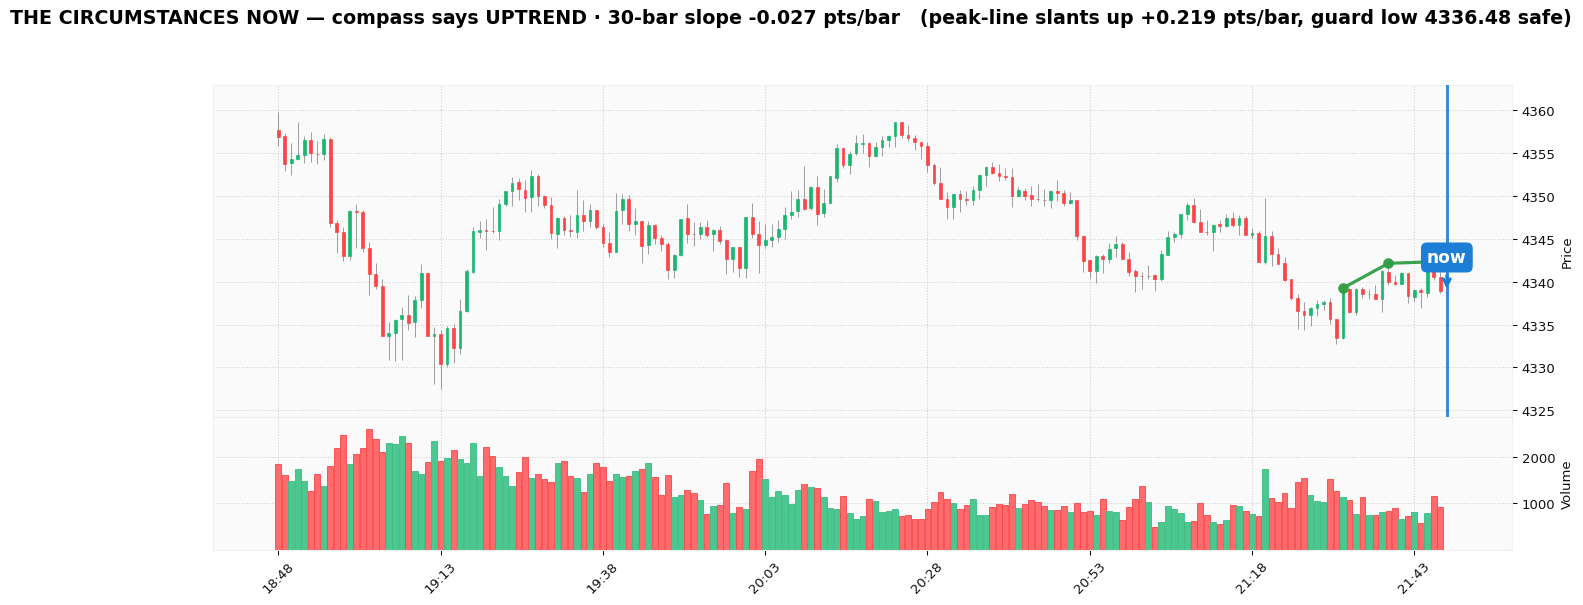
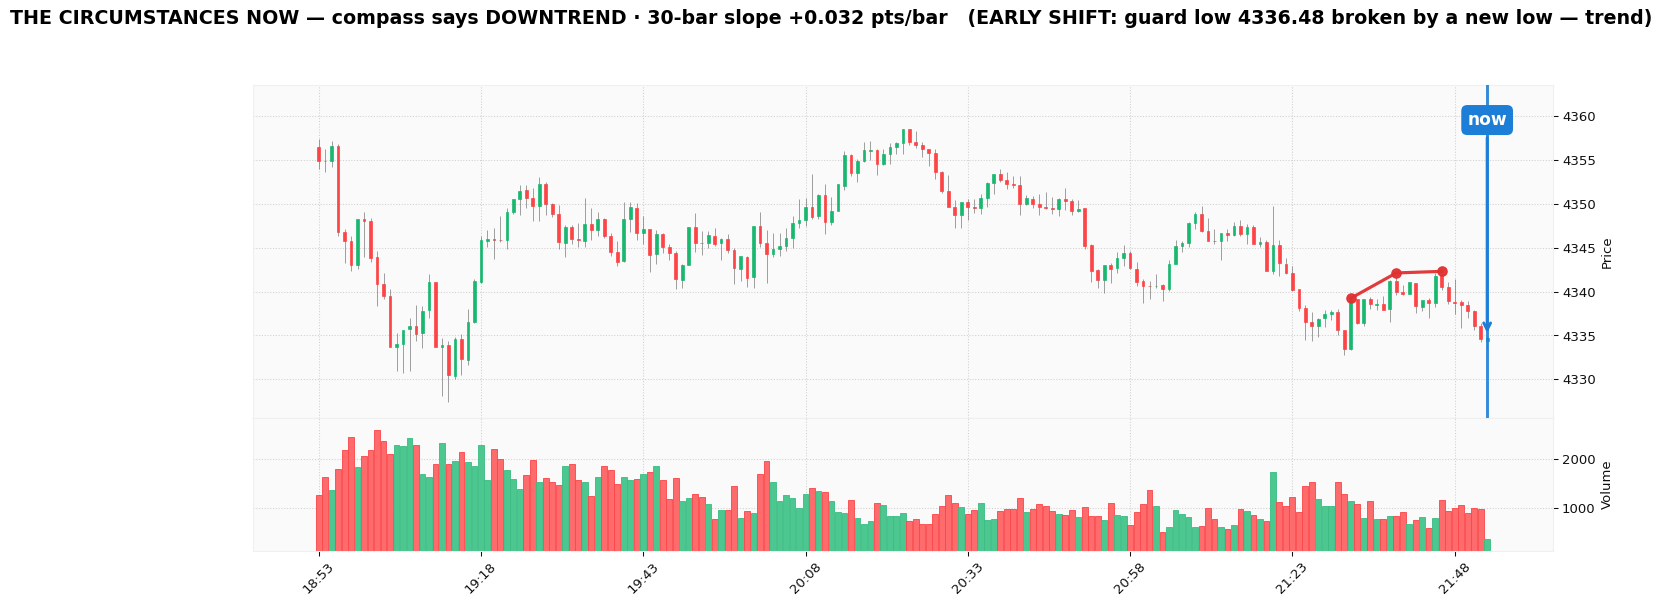
Context panel: the 'this trade' / 'now' badge sat on top of the candles — it is now anchored above the window's high with its arrow pointing down to the bar, and the top margin widened so it always clears the price action

diff --git a/monitor/forensic_chart.py b/monitor/forensic_chart.py
@@ -442,10 +442,13 @@ def draw_context(broker_ts, side, bars_back=180, out=None):
     ax = axes[0]
     epos = ei - lo
     ax.axvline(epos, color="#1c7ed6", lw=2.2, ls="-", alpha=0.9, zorder=5)
+    # the badge sits ABOVE the whole window, never over the candles (Zee 2026-08-07:
+    # "the label is hiding candles") — anchored to the window's high, not the bar's.
+    _top = max(x[2] for x in win)
     ax.annotate("now" if live else "this trade", xy=(epos, win[epos][2]),
-                textcoords="offset points",
-                xytext=(0, 22), fontsize=13, fontweight="bold", color="white",
-                ha="center", annotation_clip=False, zorder=6,
+                xytext=(epos, _top), textcoords="data",
+                fontsize=13, fontweight="bold", color="white",
+                ha="center", va="bottom", annotation_clip=False, zorder=6,
                 bbox=dict(boxstyle="round,pad=0.35", fc="#1c7ed6", ec="none"),
                 arrowprops=dict(arrowstyle="->", lw=2.2, color="#1c7ed6"))
     # the compass line through the swing peaks
@@ -457,8 +460,8 @@ def draw_context(broker_ts, side, bars_back=180, out=None):
         ax.plot([q[0] for q in pts], [q[1] for q in pts], "-o", color=col, lw=2.4,
                 markersize=7, alpha=0.95, zorder=4)
     lo_p = min(x[3] for x in win); hi_p = max(x[2] for x in win)
-    pad = max((hi_p - lo_p) * 0.10, 0.3)
-    ax.set_ylim(lo_p - pad, hi_p + pad)
+    rng_p = hi_p - lo_p
+    ax.set_ylim(lo_p - max(rng_p * 0.06, 0.3), hi_p + max(rng_p * 0.16, 0.6))
     out = out or (Path(__file__).parent / "setup_labels" /
                   f"context_{(broker_ts or 'now')[11:].replace(':', '') or 'now'}.png")
     fig.savefig(str(out), dpi=95, bbox_inches="tight")
